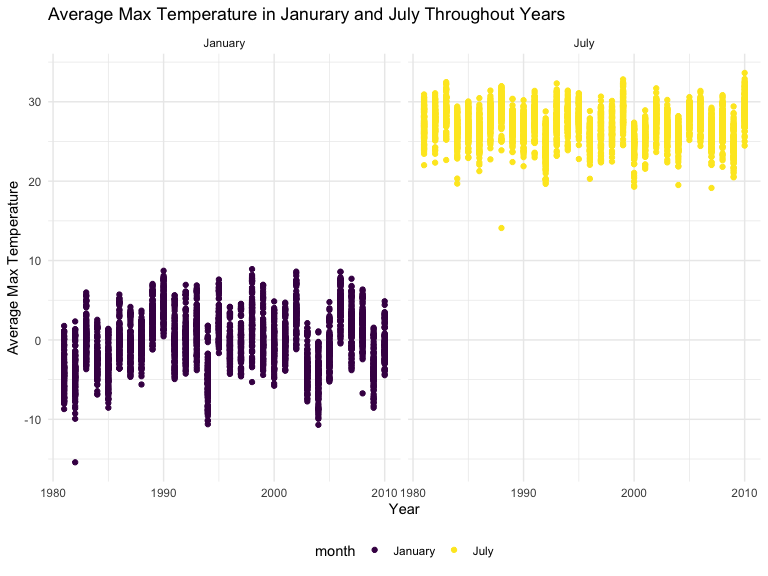
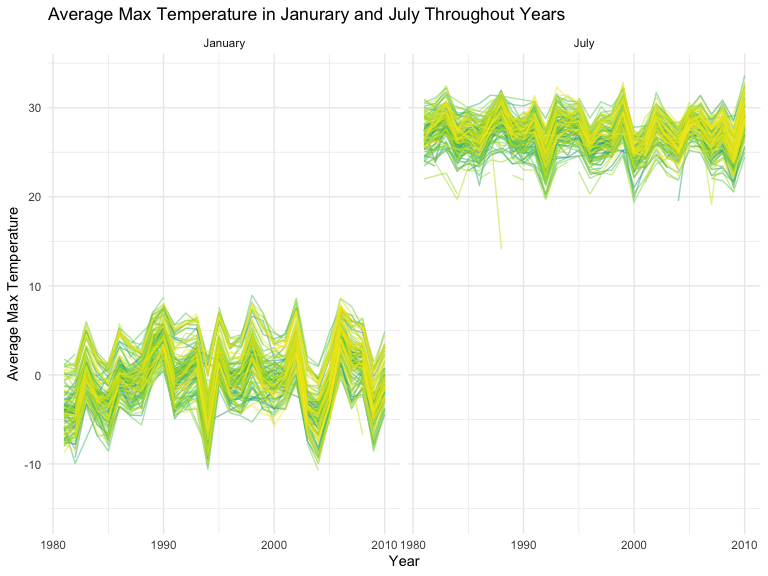
Updated the graph of 3.2 from scatterplot to line graph

diff --git a/p8105_hw3_hm2947.md b/p8105_hw3_hm2947.md
@@ -284,8 +284,9 @@ ny_df %>%
   group_by(id, year, month) %>% 
   filter(month == c("January", "July")) %>% 
   summarize(avg_tmax = mean(tmax)) %>% 
-  ggplot(aes(x = year, y = avg_tmax, color = month)) +
-  geom_point() +
+  ggplot(aes(x = year, y = avg_tmax, color = id)) +
+  geom_line(alpha = .5) +
+  theme(legend.position = "none") +
   facet_grid(. ~ month) +
   labs( x = "Year",
         y = "Average Max Temperature",
